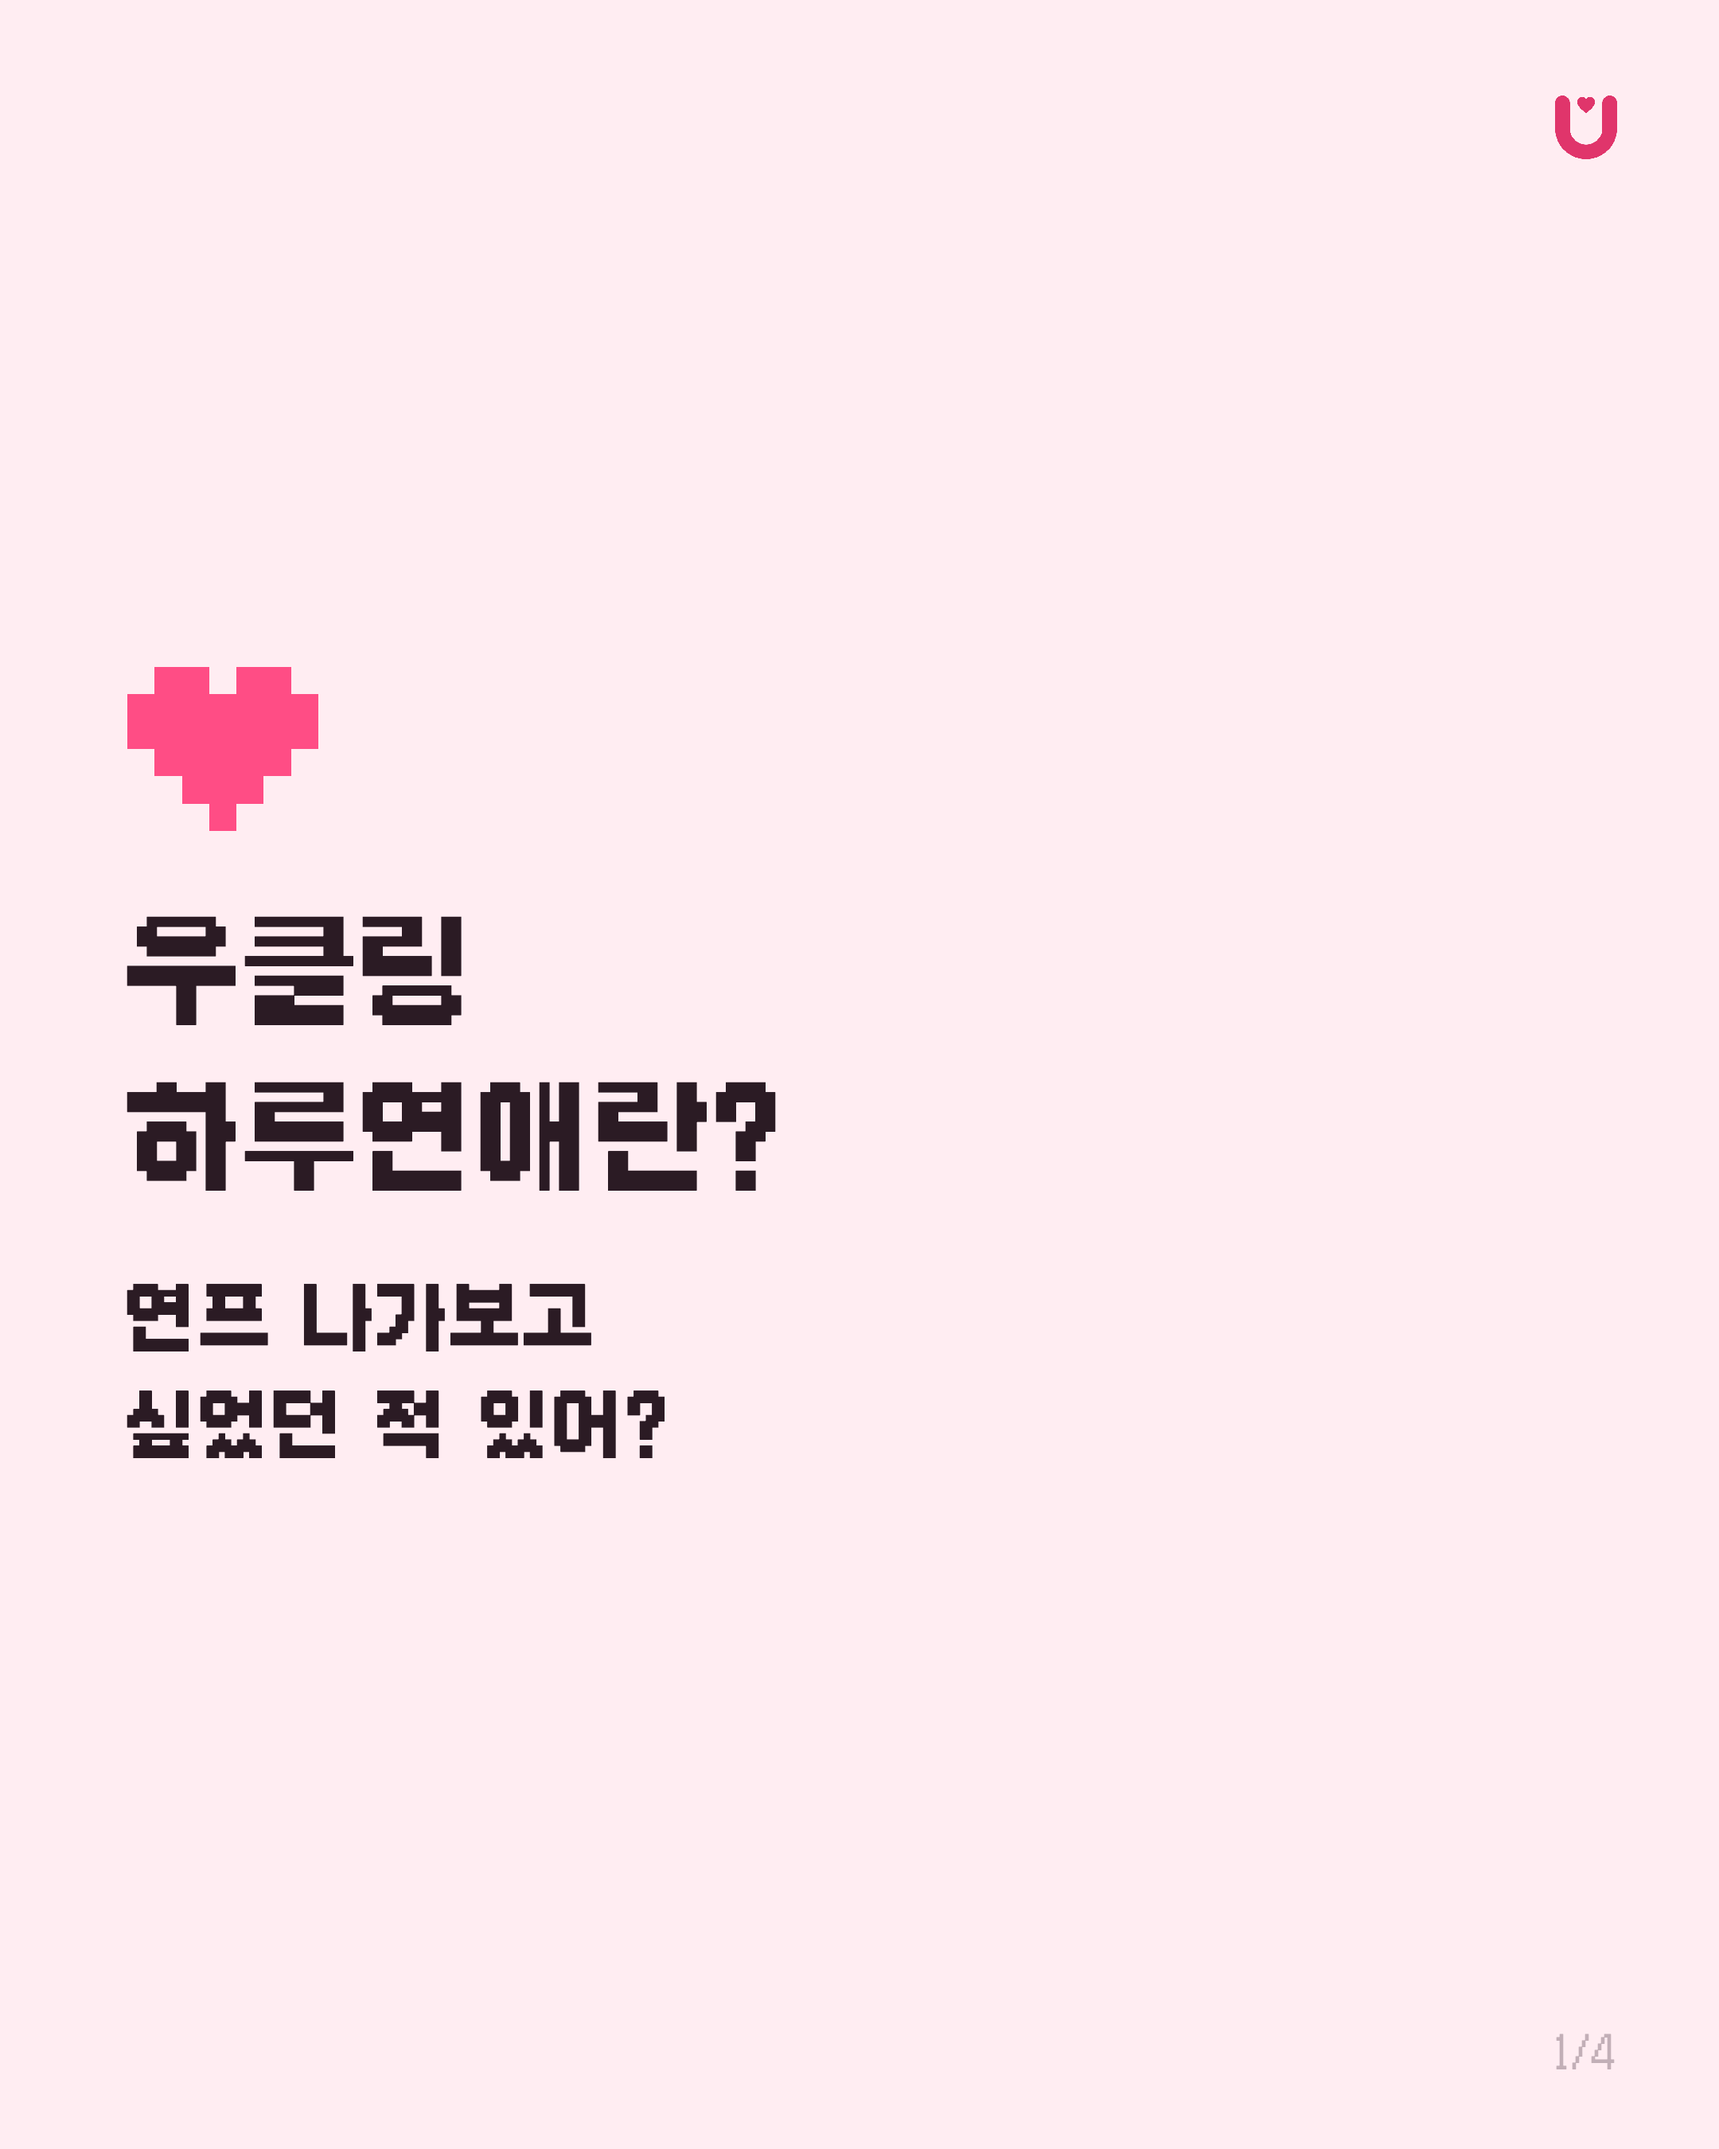
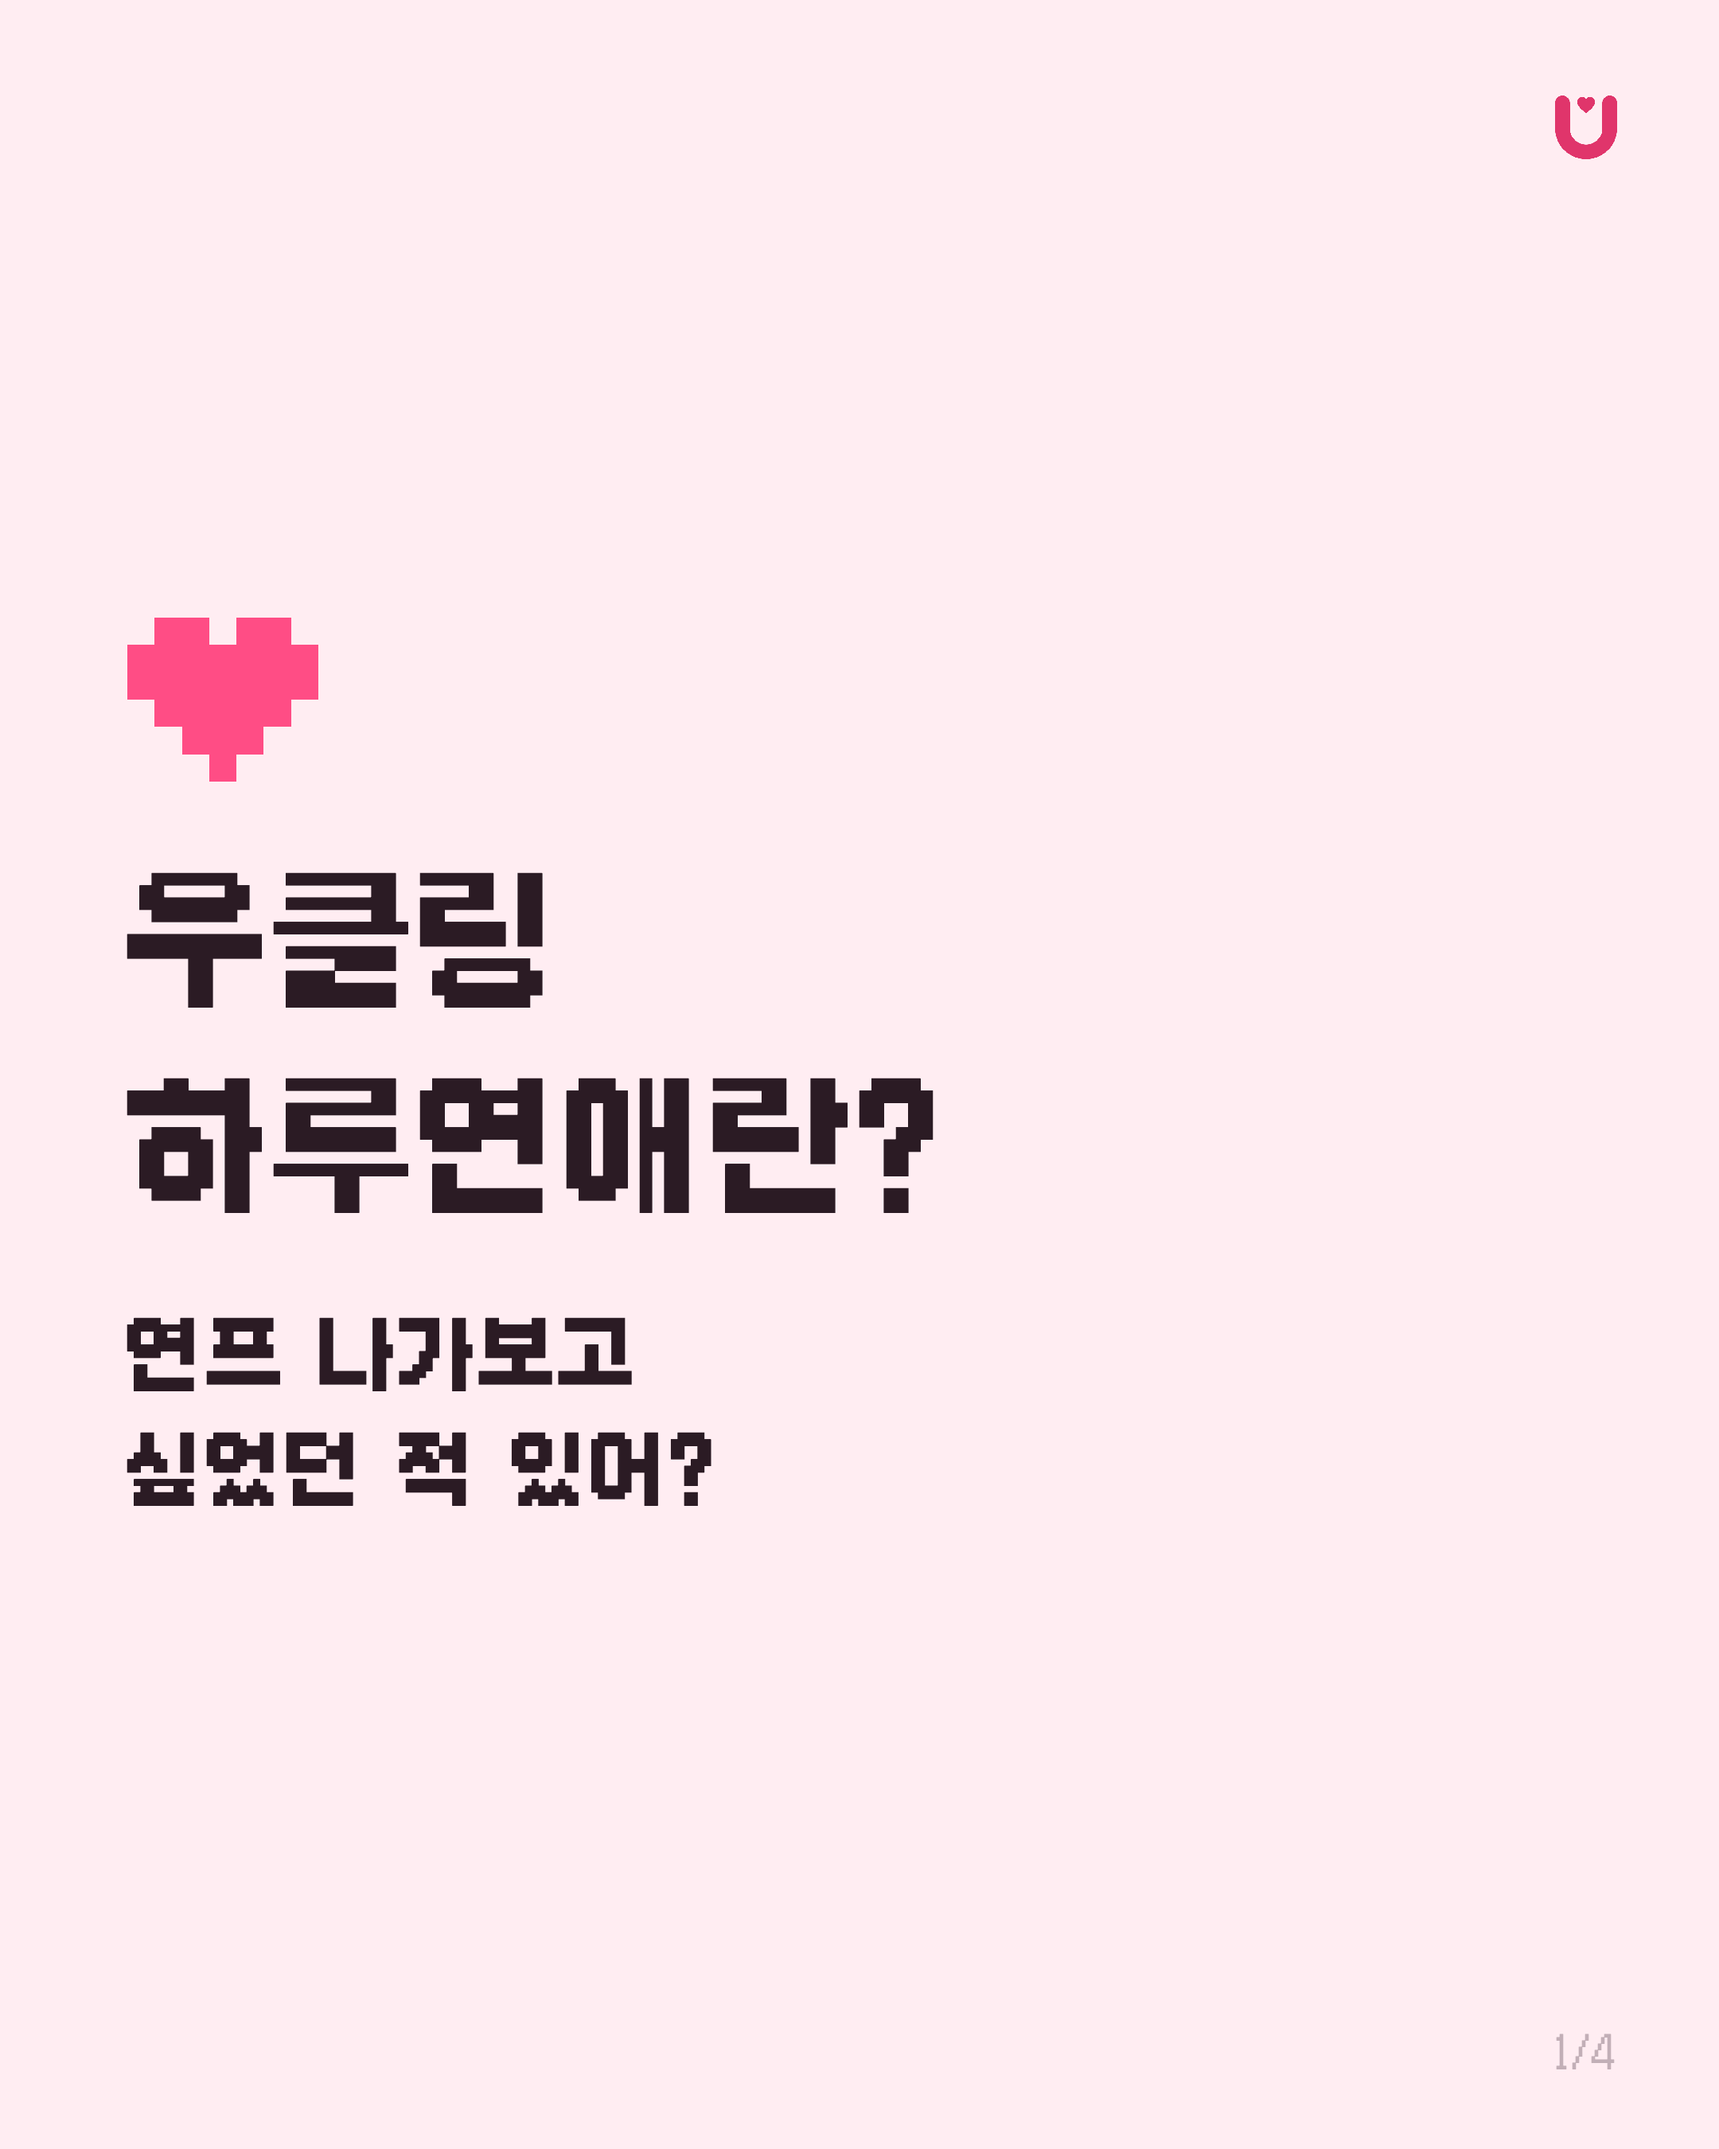
소개 표지 '우클링 하루연애란?' 글씨 키움 (74→92px)
Claude-Session: https://claude.ai/code/session_016NTfZYusKQijEUYPhviCHK

Changed region(s): [[0.062, 0.28, 0.5583, 0.7156]]

diff --git a/insta/cards.html b/insta/cards.html
@@ -249,8 +249,8 @@
 <section class="card set1 cover dots" data-name="01_소개_01">
   <img class="card__logo" src="assets/ucling-wordmark-round-rose.png" alt="우클링" />
   <svg class="pxheart" width="120" height="103" style="margin-bottom:40px"><use href="#pxheart"/></svg>
-  <h1 class="title title--bold" style="font-size:74px">우클링<br />하루연애란?</h1>
-  <p class="cover-sub">연프 나가보고<br />싶었던 적 있어?</p>
+  <h1 class="title title--bold" style="font-size:92px">우클링<br />하루연애란?</h1>
+  <p class="cover-sub" style="font-size:50px">연프 나가보고<br />싶었던 적 있어?</p>
   <span class="page-num">1/4</span>
 </section>
 
